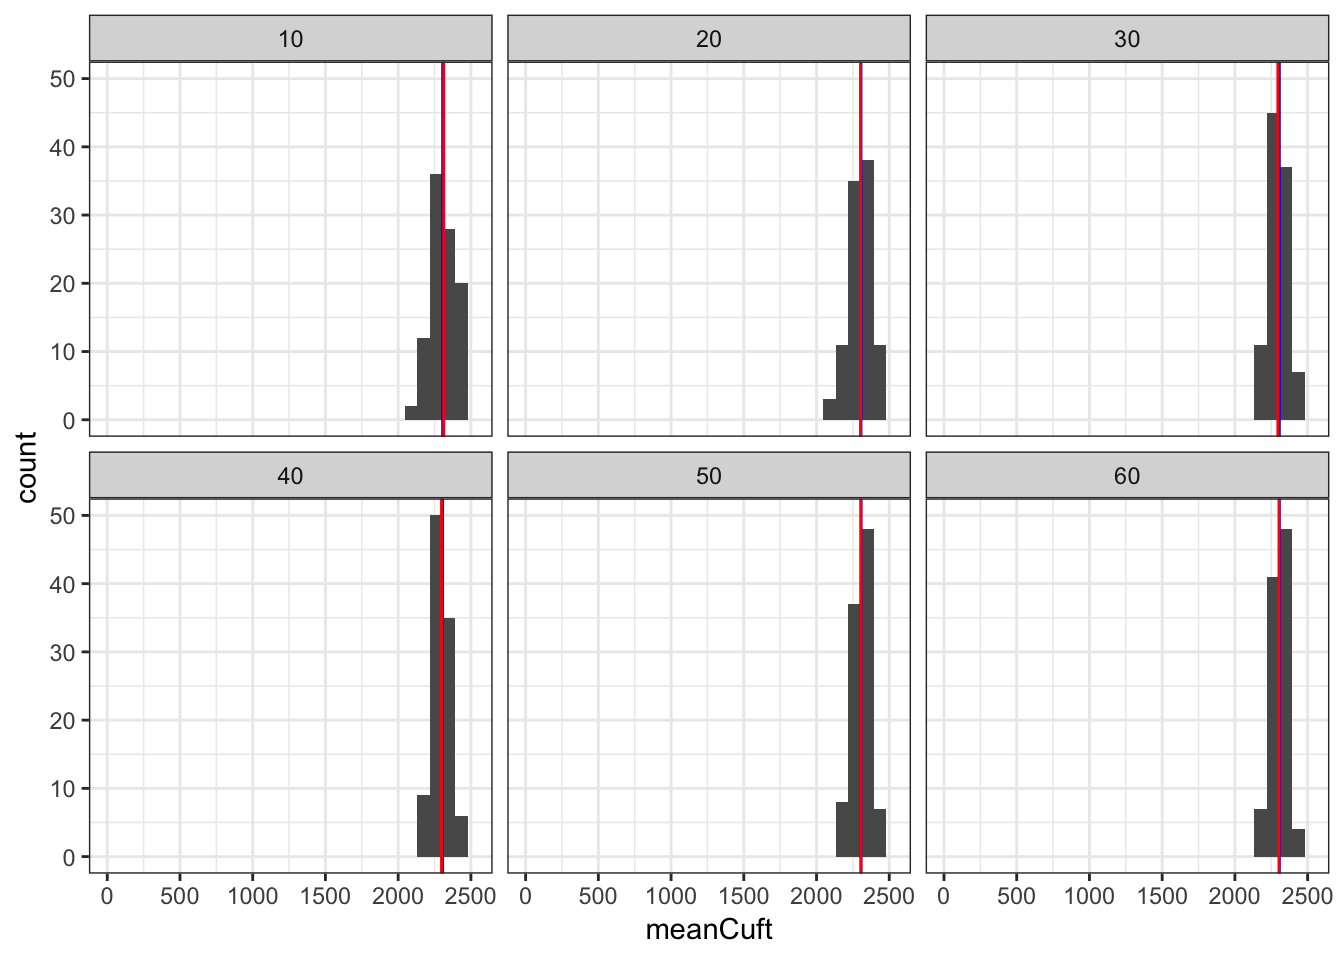
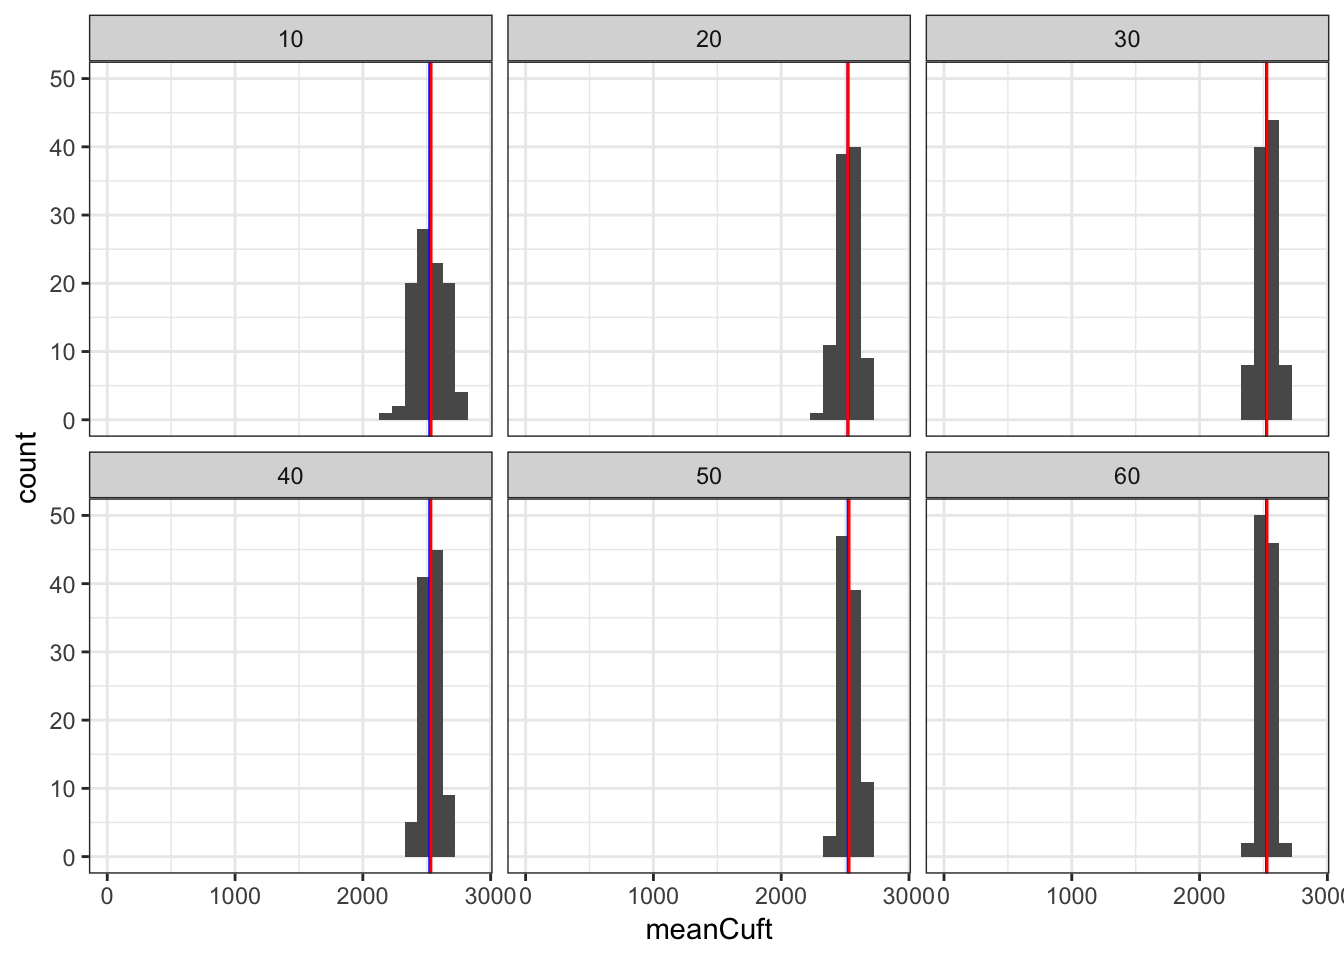
finish the HT post!

diff --git a/content/post/2019-02-04-horvitz_thompson.html b/content/post/2019-02-04-horvitz_thompson.html
@@ -37,7 +37,7 @@ stands &lt;- tibble(id = 1:100) %&gt;%
   mutate(
     cuftPerAc = 3000 *
       1 / (1 + exp(-(age - 40) / 15)) +
-      rnorm(n = 100, mean = 0, sd = 300),
+      rnorm(n = 100, mean = 0, sd = 200),
     cuftPerAc = ifelse(cuftPerAc &lt; 0, 0, cuftPerAc),
     cuftTot = cuftPerAc * acres
   )
@@ -58,7 +58,7 @@ stands %&gt;%
   geom_point() +
   ylab(bquote(&quot;volume (&quot; ~ ft^{3} ~ &quot;/ac)&quot;)) +
   labs(caption = &quot;volume over age for the forest&quot;)</code></pre>
-<p><img src="/post/2019-02-04-horvitz_thompson_files/figure-html/data-1.png" width="672" /> The true population mean stocking is 2306 cubic feet per acre, the population total is 4.687976610^{7} cubic feet!</p>
+<p><img src="/post/2019-02-04-horvitz_thompson_files/figure-html/data-1.png" width="672" /> The true population mean stocking is 2523 cubic feet per acre, the population total is 4.54931310^{7} cubic feet!</p>
 </div>
 <div id="designing-a-sample" class="section level2">
 <h2>Designing a sample</h2>
@@ -74,6 +74,7 @@ stands %&gt;%
 \pi_{i} = n * p_{i}
 \]</span></p>
 <p>where <span class="math inline">\(p_{i}\)</span> is the sampling weight for the <span class="math inline">\(i\)</span>th primary sample unit. This works fine when sampling with replacement, but sampling without replacement is slightly more complicated. The probability of including the <span class="math inline">\(i\)</span>th element on the <span class="math inline">\(k\)</span>th draw depends on the elements that were drawn in all draws <span class="math inline">\(1:k\)</span>. The distinction between <span class="math inline">\(p_{i}\)</span> and <span class="math inline">\(\pi_{i}\)</span> is very important. Think of <span class="math inline">\(\pi_{i}\)</span> as the likelihood of including the <span class="math inline">\(i\)</span>th element unconditional on the other elements selected in the sample. This can be calculated by computing the proportion of all possible samples where an element is selected but that sounds very difficult. Instead we will use the power of simulation to obtain an approximation of <span class="math inline">\(\pi_{i}\)</span> for each stand.</p>
+<p>For this sample we are going to weight our sample on <code>age * acres</code> since we believe the oldest stands are going to have the greatest stocking, and that the largest stands have the greatest total volume. We have decided that we are going to sample 20 stands and install either one plot per 8 acres or 30 plots per stand, whichever is fewer.</p>
 <pre class="r"><code>stands$prop &lt;- (stands$cuftPerAc * stands$acres) /
   sum(stands$cuftPerAc * stands$acres)
 
@@ -109,7 +110,8 @@ sampleSim20 %&gt;%
   ylim(0, 1.1 * max(sampleSim20$pi_i_sim)) +
   xlab(bquote(&quot;approximate&quot; ~ pi[i])) +
   ylab(bquote(&quot;simulated&quot; ~ pi[i]))</code></pre>
-<p><img src="/post/2019-02-04-horvitz_thompson_files/figure-html/sampleSimulation-1.png" width="672" /></p>
+<p><img src="/post/2019-02-04-horvitz_thompson_files/figure-html/sampleSimulation-1.png" width="672" /> As you can see, there are subtle differences between the approximate <span class="math inline">\(pi_{i}\)</span> values and the <span class="math inline">\(pi_{i}\)</span> values generated from 10,000 simulated samples. We will use the simulated values for the rest of the analysis.</p>
+<p>By plotting <span class="math inline">\(pi_{i}\)</span> in volume and stand acreage space we can see that large stands with high volume stocking have the highest probability of inclusion in a sample of 20 stands.</p>
 <pre class="r"><code>sampleSim20 %&gt;%
   left_join(stands) %&gt;%
   ggplot(
@@ -118,11 +120,14 @@ sampleSim20 %&gt;%
       y = cuftPerAc,
       color = pi_i_sim)
     ) +
-  geom_point()</code></pre>
+  geom_point() +
+  ylab(bquote(&quot;volume (&quot; ~ ft^{3} ~ &quot;/ac)&quot;)) +
+  scale_color_continuous(
+    name = bquote(&quot;simulated&quot; ~ pi[i])
+  )</code></pre>
 <pre><code>## Joining, by = c(&quot;id&quot;, &quot;prop&quot;)</code></pre>
-<p><img src="/post/2019-02-04-horvitz_thompson_files/figure-html/sampleSimulation-2.png" width="672" /></p>
-<p>As you can see, there are subtle differences between the approximate <span class="math inline">\(pi_{i}\)</span> values and the <span class="math inline">\(pi_{i}\)</span> values generated from 10,000 simulated samples. We will use the simulated values for the rest of the analysis.</p>
-<p>For this sample we are going to weight our sample on <code>age * acres</code> since we believe the oldest stands are going to have the greatest stocking, and that the largest stands have the greatest total volume. We have decided that we are going to sample 20 stands and install either one plot per 8 acres or 30 plots per stand, whichever is fewer.</p>
+<p><img src="/post/2019-02-04-horvitz_thompson_files/figure-html/samplingProbabilityField-1.png" width="672" /></p>
+<p>Now we are going to step through a sample of the population.</p>
 <pre class="r"><code>acresPerPlot &lt;- 8
 
 sampStands &lt;- stands %&gt;%
@@ -161,9 +166,7 @@ stands %&gt;%
   rowwise() %&gt;%
   mutate(
     cuftObs = list(
-      truncnorm::rtruncnorm(
-        a = -Inf, # biological minimum
-        b = Inf, # biological maximum
+      rnorm(# biological maximum
         n = nPlots,
         mean = cuftPerAc,
         sd = (cv / 100) * cuftPerAc
@@ -301,126 +304,14 @@ results &lt;- bind_rows(sampleSummary, truth)</code></pre>
   ylab(bquote(&quot;volume (&quot; ~ ft^{3} ~ &quot;/ac)&quot;))</code></pre>
 <pre><code>## Warning: Removed 1 rows containing missing values (geom_errorbar).</code></pre>
 <p><img src="/post/2019-02-04-horvitz_thompson_files/figure-html/sampleEstimates-1.png" width="672" /></p>
-<pre class="r"><code>simulate_HT &lt;- function(sims, stands, nStands,
-                        acresPerPlot) {
-  
-  sampleSim &lt;- simulate_sample(
-    sims = 10000,
-    stands = stands,
-    nSamp = nStands
-  )
-  
-  out &lt;- bind_rows(
-    lapply(
-      1:sims,
-      function(...) {
-        sampStands &lt;- stands %&gt;%
-          sample_n(
-            size = nStands,
-            weight = prop,
-            replace = FALSE
-          ) %&gt;%
-          group_by(id) %&gt;%
-          mutate(
-            nPlots = max(
-              2,
-              min(ceiling(acres / acresPerPlot), 30)
-            )
-          ) %&gt;%
-          left_join(
-            sampleSim %&gt;%
-              select(id, pi_i = pi_i_sim),
-              by = &quot;id&quot;
-            ) %&gt;%
-          ungroup()
-
-        # stage 2: sample plots
-        plotTab &lt;- sampStands %&gt;%
-          group_by(id) %&gt;%
-          mutate(
-            cuftObs = list(
-              truncnorm::rtruncnorm(
-                a = -Inf, # biological minimum
-                b = Inf,
-                n = nPlots,
-                mean = cuftPerAc,
-                sd = (cv / 100) * cuftPerAc
-              )
-            )
-          ) %&gt;%
-          select(id, cuftObs) %&gt;%
-          unnest() %&gt;%
-          ungroup()
-
-        standDat &lt;- plotTab %&gt;%
-          left_join(
-            sampStands %&gt;%
-              select(id, acres),
-            by = &quot;id&quot;
-          ) %&gt;%
-          group_by(id, acres) %&gt;%
-          summarize(
-            meanObs = mean(cuftObs),
-            tHat = mean(cuftObs * acres),
-            varTHat = mean(acres)^2 * var(cuftObs) / n(),
-            sdObs = sd(cuftObs),
-            nPlots = n()
-          )
-
-        sampleSummary &lt;- standDat %&gt;%
-          left_join(
-            sampStands %&gt;%
-              select(id, pi_i, prop),
-            by = &quot;id&quot;
-          ) %&gt;%
-          ungroup() %&gt;%
-          mutate(
-            subVar = unlist(
-              lapply(
-                1:nrow(.),
-                sub_var,
-                data = .,
-                y = &quot;tHat&quot;,
-                pi_i = &quot;pi_i&quot;,
-                p = &quot;prop&quot;
-              )
-            )
-          ) %&gt;%
-          ungroup() %&gt;%
-          summarize(
-            totalCuft = sum(tHat / pi_i),
-            fpc = 1 - n() / nrow(stands),
-            varTot = fpc * (
-              sum(((1 - pi_i) / pi_i^2) * tHat^2) +
-                sum(subVar) + sum(varTHat / pi_i)
-              ),
-            nObs = n()
-          ) %&gt;%
-          mutate(
-            seTot = sqrt(varTot / nObs),
-            ci90Tot = qt(
-              1 - 0.1 / 2,
-              df = nObs - 1
-              ) * seTot,
-            meanCuft = totalCuft / totalAcres,
-            seMeanCuft = seTot / totalAcres,
-            ci90MeanCuft = ci90Tot / totalAcres,
-            source = &quot;estimate&quot;
-          ) %&gt;%
-          select(
-            source, totalCuft, seTot, ci90Tot,
-            meanCuft, seMeanCuft, ci90MeanCuft,
-            nObs
-          )
-        sampleSummary
-      }
-    )
-  )
-  
-  out
-}
-
-simFrame &lt;- bind_rows(
+</div>
+</div>
+</div>
+<div id="simulate-many-samples" class="section level2">
+<h2>Simulate many samples</h2>
+<p>Though we may be stuck with it in real life, the result of a single sample is not very helpful for evaluating the performance of a sample design. To do that we will simulate many samples and evaluate the performance of various sampling intensities by assessing trends in precison and bias.</p>
+<p>We are simulating 100 samples for six sample intensities: 10, 20, 30, 40, 50, and 60 stands out of the 100 in the population. Stands will be selected using the same probabilities as the example we walked through earlier.</p>
+<pre class="r"><code>simFrame &lt;- bind_rows(
   map(
     .x = c(10, 20, 30, 40, 50, 60),
     .f = simulate_HT,
@@ -445,6 +336,7 @@ simStats &lt;- simFrame %&gt;%
     ci90MeanCuft = mean(ci90MeanCuft),
     propMatchCI = mean(meanInCI)
   )</code></pre>
+<p>The histograms of sample mean for each level of sampling intensity shows that the sample means become more stable as we increase sample size.</p>
 <pre class="r"><code>ggplot(data = simFrame, aes(x = meanCuft)) +
   geom_histogram() +
   theme_bw() +
@@ -462,9 +354,9 @@ simStats &lt;- simFrame %&gt;%
 <pre><code>## `stat_bin()` using `bins = 30`. Pick better value with `binwidth`.</code></pre>
 <pre><code>## Warning: Removed 12 rows containing missing values (geom_bar).</code></pre>
 <p><img src="/post/2019-02-04-horvitz_thompson_files/figure-html/simulationPlot1-1.png" width="672" /></p>
+<p>The plot of simulated sample means with 90% confidence intervals and the true population mean (green line) shows that each sample intensity yields accurate estimates, but the precision of estimates increases substantially as we sample more stands.</p>
 <pre class="r"><code>simFrame %&gt;%
   group_by(nObs) %&gt;%
-  # sample_n(20) %&gt;%
   mutate(sim = row_number()) %&gt;%
   ggplot(aes(x = meanCuft, y = sim)) +
   geom_errorbarh(
@@ -477,16 +369,17 @@ simStats &lt;- simFrame %&gt;%
   ) +
   geom_point(size = 1, alpha = 0.8) +
   geom_vline(
-    xintercept = truth$meanCuft, color = &quot;green&quot;
+    aes(xintercept = truth$meanCuft),
+    color = &quot;green&quot;
   ) +
   facet_wrap(~ nObs) +
   xlim(
     0,
     max(simFrame$meanCuft) +
       max(simFrame$ci90MeanCuft)
-  ) +
-  theme_bw()</code></pre>
+  )</code></pre>
 <p><img src="/post/2019-02-04-horvitz_thompson_files/figure-html/simulationPlot2-1.png" width="672" /></p>
+<p>Based on the criteria we set for acceptable precision (+/- 10% of mean at 90% confidence), we should be able to get by with a sample of 20 stands!</p>
 <pre class="r"><code>outTable &lt;- simStats %&gt;%
   bind_rows(truth %&gt;% select(source, meanCuft)) %&gt;%
   rename(
@@ -521,54 +414,52 @@ pander::pander(
 <tr class="odd">
 <td align="center">estimate</td>
 <td align="center">10</td>
-<td align="center">2313</td>
-<td align="center">393</td>
+<td align="center">2534</td>
+<td align="center">431.5</td>
 <td align="center">1</td>
 </tr>
 <tr class="even">
 <td align="center">estimate</td>
 <td align="center">20</td>
-<td align="center">2303</td>
-<td align="center">209.8</td>
-<td align="center">0.98</td>
+<td align="center">2520</td>
+<td align="center">230.9</td>
+<td align="center">0.99</td>
 </tr>
 <tr class="odd">
 <td align="center">estimate</td>
 <td align="center">30</td>
-<td align="center">2295</td>
-<td align="center">171.8</td>
-<td align="center">0.98</td>
+<td align="center">2527</td>
+<td align="center">188.9</td>
+<td align="center">1</td>
 </tr>
 <tr class="even">
 <td align="center">estimate</td>
 <td align="center">40</td>
-<td align="center">2298</td>
-<td align="center">152</td>
-<td align="center">1</td>
+<td align="center">2533</td>
+<td align="center">166.4</td>
+<td align="center">0.99</td>
 </tr>
 <tr class="odd">
 <td align="center">estimate</td>
 <td align="center">50</td>
-<td align="center">2305</td>
-<td align="center">131.6</td>
-<td align="center">0.96</td>
+<td align="center">2531</td>
+<td align="center">143.8</td>
+<td align="center">0.97</td>
 </tr>
 <tr class="even">
 <td align="center">estimate</td>
 <td align="center">60</td>
-<td align="center">2303</td>
-<td align="center">108.2</td>
-<td align="center">0.93</td>
+<td align="center">2528</td>
+<td align="center">118.9</td>
+<td align="center">0.97</td>
 </tr>
 <tr class="odd">
 <td align="center"><strong>truth</strong></td>
 <td align="center"><strong>-</strong></td>
-<td align="center"><strong>2306</strong></td>
+<td align="center"><strong>2523</strong></td>
 <td align="center"><strong>-</strong></td>
 <td align="center"><strong>-</strong></td>
 </tr>
 </tbody>
 </table>
-</div>
-</div>
 </div>
